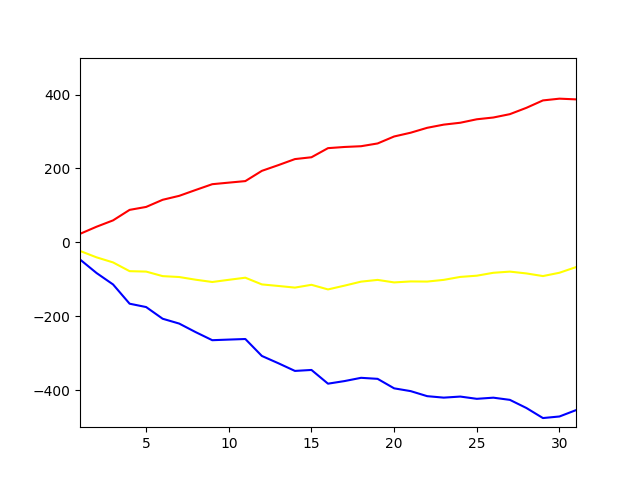
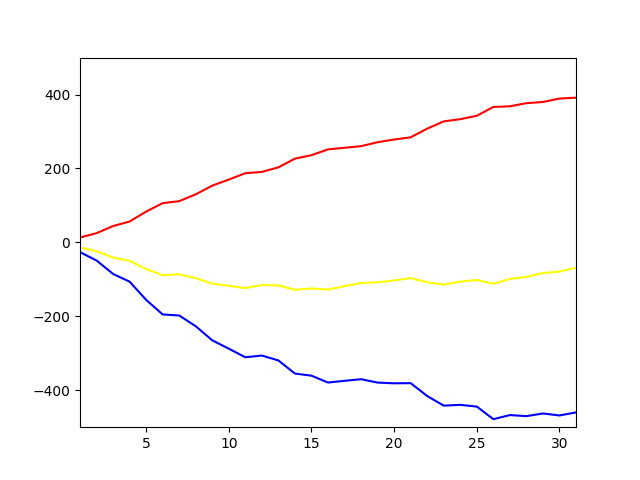
sim9

diff --git a/sim1/sim1.py b/sim1/sim1.py
@@ -6,14 +6,24 @@ import pandas as pd
 import matplotlib.pyplot as plt
 road=1.1
 wether=1
-day_length=10
-au=[1.5,1.5,1.5,1,1,0,1,1,1,1]
-x=list(range(1,11))
-distance=[20,20,17,6,6,6,8,6,6,6]
+day_length=31
+au=[]
+x=[]
+distance=[]
 trimp=[]
 fig=[]
 fit=[]
 par=[]
+
+for i in range(day_length):
+  x.append(i+1)
+  distance.append(random.randrange(6,20))
+  sub=random.randrange(1,3)
+  if sub==1:
+    au.append(1)
+  else:
+    au.append(1.5)
+
 for i in range(day_length):
   trimp.append(round(au[i]*distance[i]*road*wether,3))
 
@@ -28,20 +38,22 @@ for i in range(day_length):
   fig[i]*=-1  
 
 
+
+
 print(f'最終日:フィットネス={fit[-1]},疲労={fig[-1]},パフォーマンス={par[-1]}')
 
 file_df=pd.DataFrame(zip(au,distance,fit,fig,par),columns=['au','distance','fitness','fatigue','performance'])
 figure=plt.figure()
 print(file_df)
-file_df.to_excel('./sim9.xlsx')
+file_df.to_excel('./sim1.xlsx')
 plt.plot(x,fit,color='red')
 plt.plot(x,fig,color='blue')
 plt.plot(x,par,color='yellow')
 plt.xlim(1,day_length)
-plt.ylim(-400,400)
+plt.ylim(-500,500)
 plt.show()
 
-figure.savefig("./sim9.png")
+figure.savefig("./sim1.png")
 
 
 

diff --git a/sim9/sim9_rand.py b/sim9/sim9_rand.py
@@ -6,7 +6,7 @@ import pandas as pd
 import matplotlib.pyplot as plt
 road=1.1
 wether=1
-day_length=31
+day_length=10
 au=[]
 x=[]
 distance=[]
@@ -18,9 +18,11 @@ par=[]
 for i in range(day_length):
   x.append(i+1)
   distance.append(random.randrange(6,20))
-  sub=random.randrange(1,3)
+  sub=random.randrange(1,4)
   if sub==1:
     au.append(1)
+  elif sub==2:
+    au.append(0)
   else:
     au.append(1.5)
 
@@ -38,17 +40,14 @@ for i in range(day_length):
   fig[i]*=-1  
 
 
-'''
-print(au)
-print(distance)
-print(fit)
-print(fig)
-print(par)
-'''
+
+
+print(f'最終日:フィットネス={fit[-1]},疲労={fig[-1]},パフォーマンス={par[-1]}')
+
 file_df=pd.DataFrame(zip(au,distance,fit,fig,par),columns=['au','distance','fitness','fatigue','performance'])
 figure=plt.figure()
 print(file_df)
-file_df.to_excel('./sim1.xlsx')
+file_df.to_excel('./sim9_rand.xlsx')
 plt.plot(x,fit,color='red')
 plt.plot(x,fig,color='blue')
 plt.plot(x,par,color='yellow')
@@ -56,7 +55,7 @@ plt.xlim(1,day_length)
 plt.ylim(-500,500)
 plt.show()
 
-figure.savefig("./sim1.png")
+figure.savefig("./sim9_rand.png")
 
 
 
